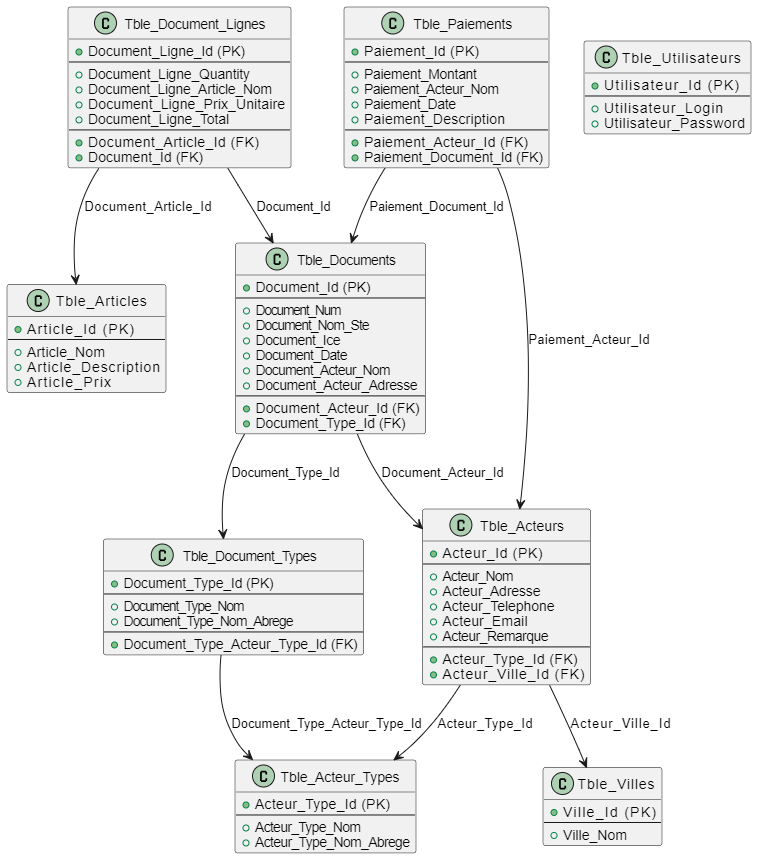
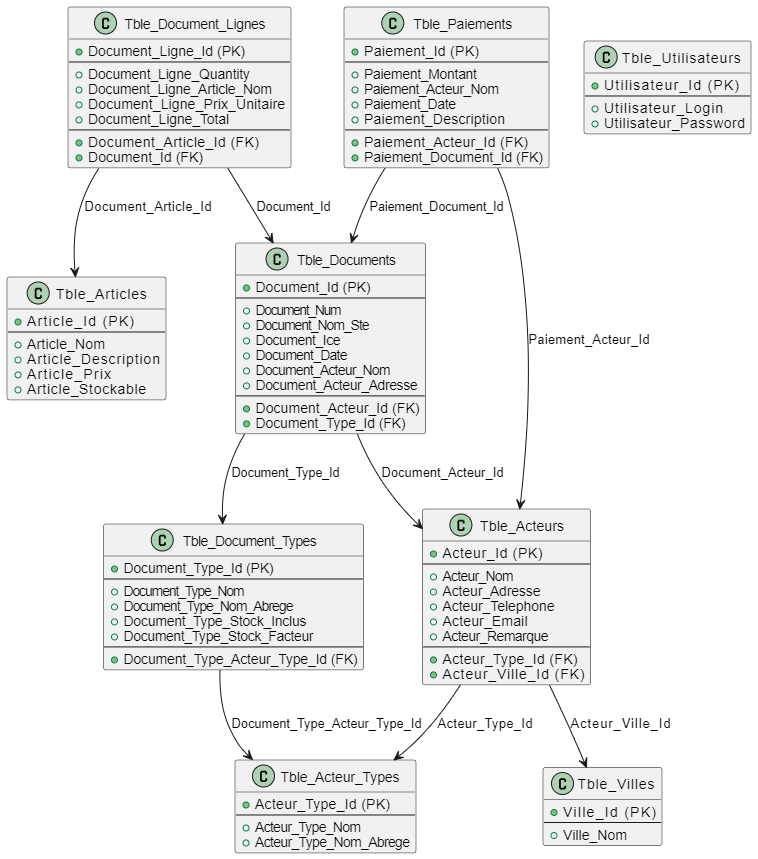
V0.2.2

Changed region(s): [[0.1214, 0.6054, 0.4855, 0.787], [0.0, 0.3027, 0.2124, 0.4843]]

diff --git a/GesLune/Windows/Articles/ArticleSaisieWindow.xaml b/GesLune/Windows/Articles/ArticleSaisieWindow.xaml
@@ -28,14 +28,17 @@
                         <RowDefinition Height="auto"/>
                         <RowDefinition Height="auto"/>
                         <RowDefinition Height="auto"/>
+                        <RowDefinition Height="auto"/>
                     </Grid.RowDefinitions>
 
                     <Label Grid.Row="0" Grid.Column="0" Content="Nom:"/>
                     <Label Grid.Row="1" Grid.Column="0" Content="Description:"/>
                     <Label Grid.Row="2" Grid.Column="0" Content="Prix:"/>
+                    <Label Grid.Row="3" Grid.Column="0" Content="Stockable:"/>
                     <TextBox  Grid.Row="0" Grid.Column="1" Text="{Binding Article.Article_Nom}" />
                     <TextBox  Grid.Row="1" Grid.Column="1" Text="{Binding Article.Article_Description}" />
                     <TextBox  Grid.Row="2" Grid.Column="1" Text="{Binding Article.Article_Prix}" />
+                    <CheckBox Grid.Row="3" Grid.Column="1" Margin="10 5" IsChecked="{Binding Article.Article_Stockable}" />
                 </Grid>
             </TabItem>
         </TabControl>

diff --git a/GesLune/Windows/Articles/ArticlesWindow.xaml b/GesLune/Windows/Articles/ArticlesWindow.xaml
@@ -46,11 +46,11 @@
                   VirtualizingPanel.VirtualizationMode="Recycling"
                   EnableRowVirtualization="True"
                   EnableColumnVirtualization="True">
-                  >
             <DataGrid.Columns>
                 <DataGridTextColumn Header="Identifiant" Binding="{Binding Article_Id}" Width="100" />
                 <DataGridTextColumn Header="Désignation" Binding="{Binding Article_Nom}" Width="200" />
                 <DataGridTextColumn Header="Description" Binding="{Binding Article_Description}" Width="300" />
+                <DataGridCheckBoxColumn Header="Stockable" Binding="{Binding Article_Stockable}" Width="auto" />
                 <DataGridTextColumn Header="Prix" Binding="{Binding Article_Prix, StringFormat=C}" Width="100" />
             </DataGrid.Columns>
         </DataGrid>

diff --git a/GesLune/Models/Model_Article.cs b/GesLune/Models/Model_Article.cs
@@ -6,14 +6,7 @@
         public string Article_Nom { get; set; } = string.Empty;
         public string? Article_Description { get; set; }
         public double Article_Prix { get; set; }
-
-        public Model_Article(int article_Id, string article_Nom, string? article_Description, double article_Prix)
-        {
-            Article_Id = article_Id;
-            Article_Nom = article_Nom;
-            Article_Description = article_Description;
-            Article_Prix = article_Prix;
-        }
+        public bool Article_Stockable { get; set; }
 
         public Model_Article() { }
     }

diff --git a/GesLune/Models/Model_Document_Type.cs b/GesLune/Models/Model_Document_Type.cs
@@ -3,8 +3,8 @@
     public class Model_Document_Type
     {
         public int Document_Type_Id { get; set; }
-        public string Document_Type_Nom { get; set; }
-        public string Document_Type_Nom_Abrege { get; set; }
+        public string Document_Type_Nom { get; set; } = string.Empty;
+        public string Document_Type_Nom_Abrege { get; set; } = string.Empty;
         public int Document_Type_Acteur_Type_Id { get; set; }
 
         public Model_Document_Type() { }

diff --git a/GesLune/Repositories/ArticleRepository.cs b/GesLune/Repositories/ArticleRepository.cs
@@ -30,7 +30,7 @@ namespace GesLune.Repositories
             connection.Open();
 
             // Create the SqlCommand and set the CommandType to StoredProcedure
-            using var command = new SqlCommand("sp_fiche_article", connection)
+            using var command = new SqlCommand("sp_fiche_stock", connection)
             {
                 CommandType = CommandType.StoredProcedure
             };

diff --git a/GesLune/ViewModels/Articles/ArticlesViewModel.cs b/GesLune/ViewModels/Articles/ArticlesViewModel.cs
@@ -50,6 +50,7 @@ namespace GesLune.ViewModels.Articles
         public void AfficherFicheStock()
         { 
             if (Selected_Article == null) return;
+            if (!Selected_Article.Article_Stockable) return;
             new ArticleFicheStockWindow(Selected_Article.Article_Id).ShowDialog();
         }
 

diff --git a/README.md b/README.md
@@ -17,3 +17,8 @@ V0.2.1
  - Supprimer le filtre "tout" pour Acteur
  - Relevé CLT / FRS
  - Relevé Filtre de date
+
+V0.2.2
+ - Definir un article comme non stockable
+ - Etat de stock pour tous les E/S
+ - Fiche de stock pour tous les E/S
